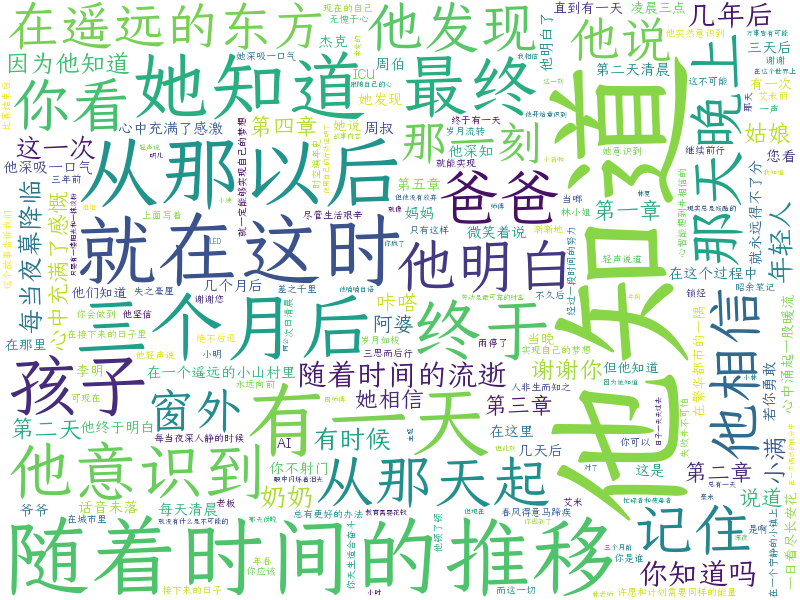
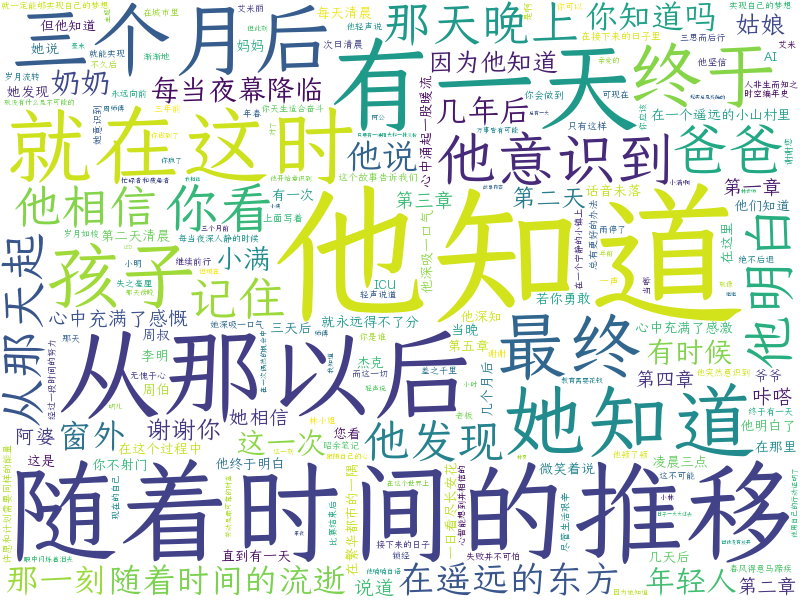
fix: 更新词云分析报告数据和时间

diff --git a/story/词云/2025-06-18.md b/story/词云/2025-06-18.md
@@ -1,33 +1,33 @@
 # 词云分析报告 - 2025-06-18
 
 ## 一、处理概览
-- 处理文件数量：544 个
-- 总字数：80018 个
-- 生成时间：2025-06-18 13:08:12
+- 处理文件数量：543 个
+- 总字数：79990 个
+- 生成时间：2025-06-18 13:31:19
 
 ## 二、高频词统计（Top 20）
 | 词 | 频率 |
 |----|----|
-| 他知道 | 124 |
-| 随着时间的推移 | 97 |
-| 从那以后 | 83 |
-| 有一天 | 82 |
-| 就在这时 | 81 |
-| 她知道 | 74 |
-| 三个月后 | 69 |
-| 孩子 | 59 |
-| 终于 | 59 |
-| 最终 | 57 |
-| 他意识到 | 50 |
-| 爸爸 | 44 |
-| 你看 | 42 |
-| 他明白 | 42 |
-| 那天晚上 | 41 |
-| 从那天起 | 41 |
-| 记住 | 41 |
-| 他相信 | 39 |
-| 他发现 | 37 |
-| 在遥远的东方 | 37 |
+| 他知道 | 123 |
+| 随着时间的推移 | 96 |
+| 从那以后 | 82 |
+| 有一天 | 81 |
+| 就在这时 | 80 |
+| 她知道 | 73 |
+| 三个月后 | 68 |
+| 孩子 | 58 |
+| 终于 | 58 |
+| 最终 | 56 |
+| 他意识到 | 49 |
+| 爸爸 | 43 |
+| 你看 | 41 |
+| 他明白 | 41 |
+| 那天晚上 | 40 |
+| 从那天起 | 40 |
+| 记住 | 40 |
+| 他相信 | 38 |
+| 他发现 | 36 |
+| 在遥远的东方 | 36 |
 
 
 ## 三、词云图
